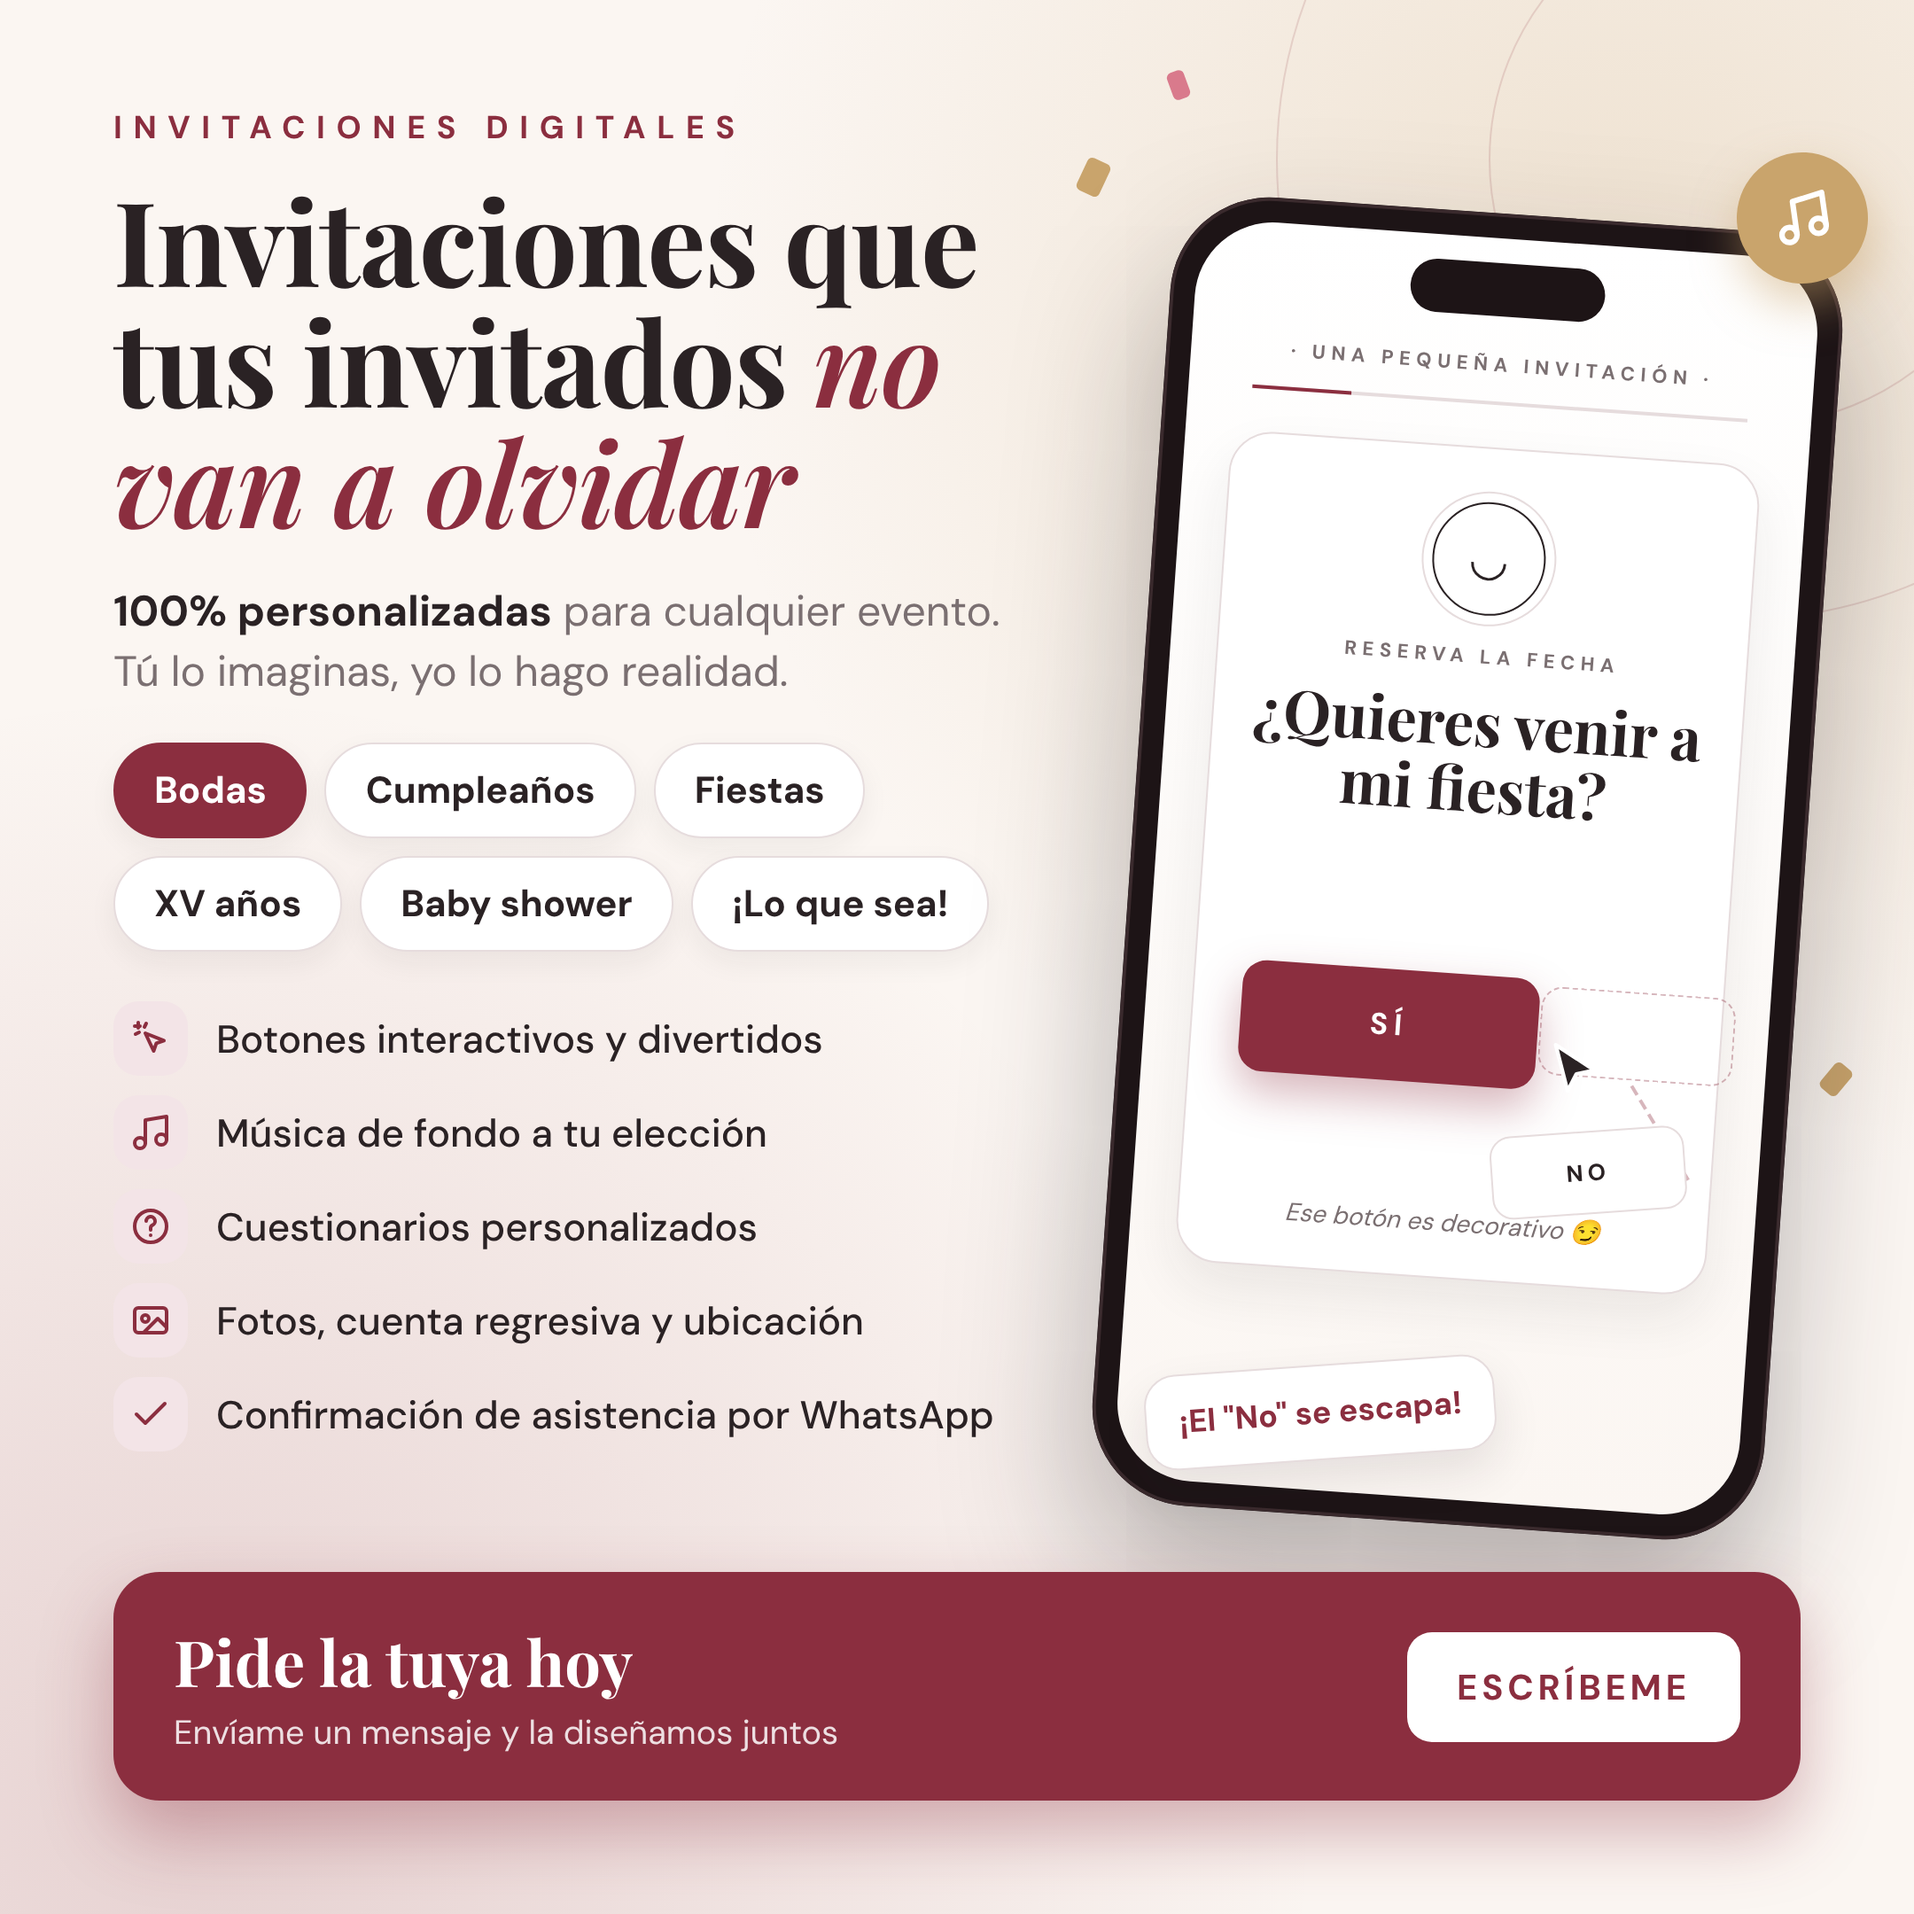
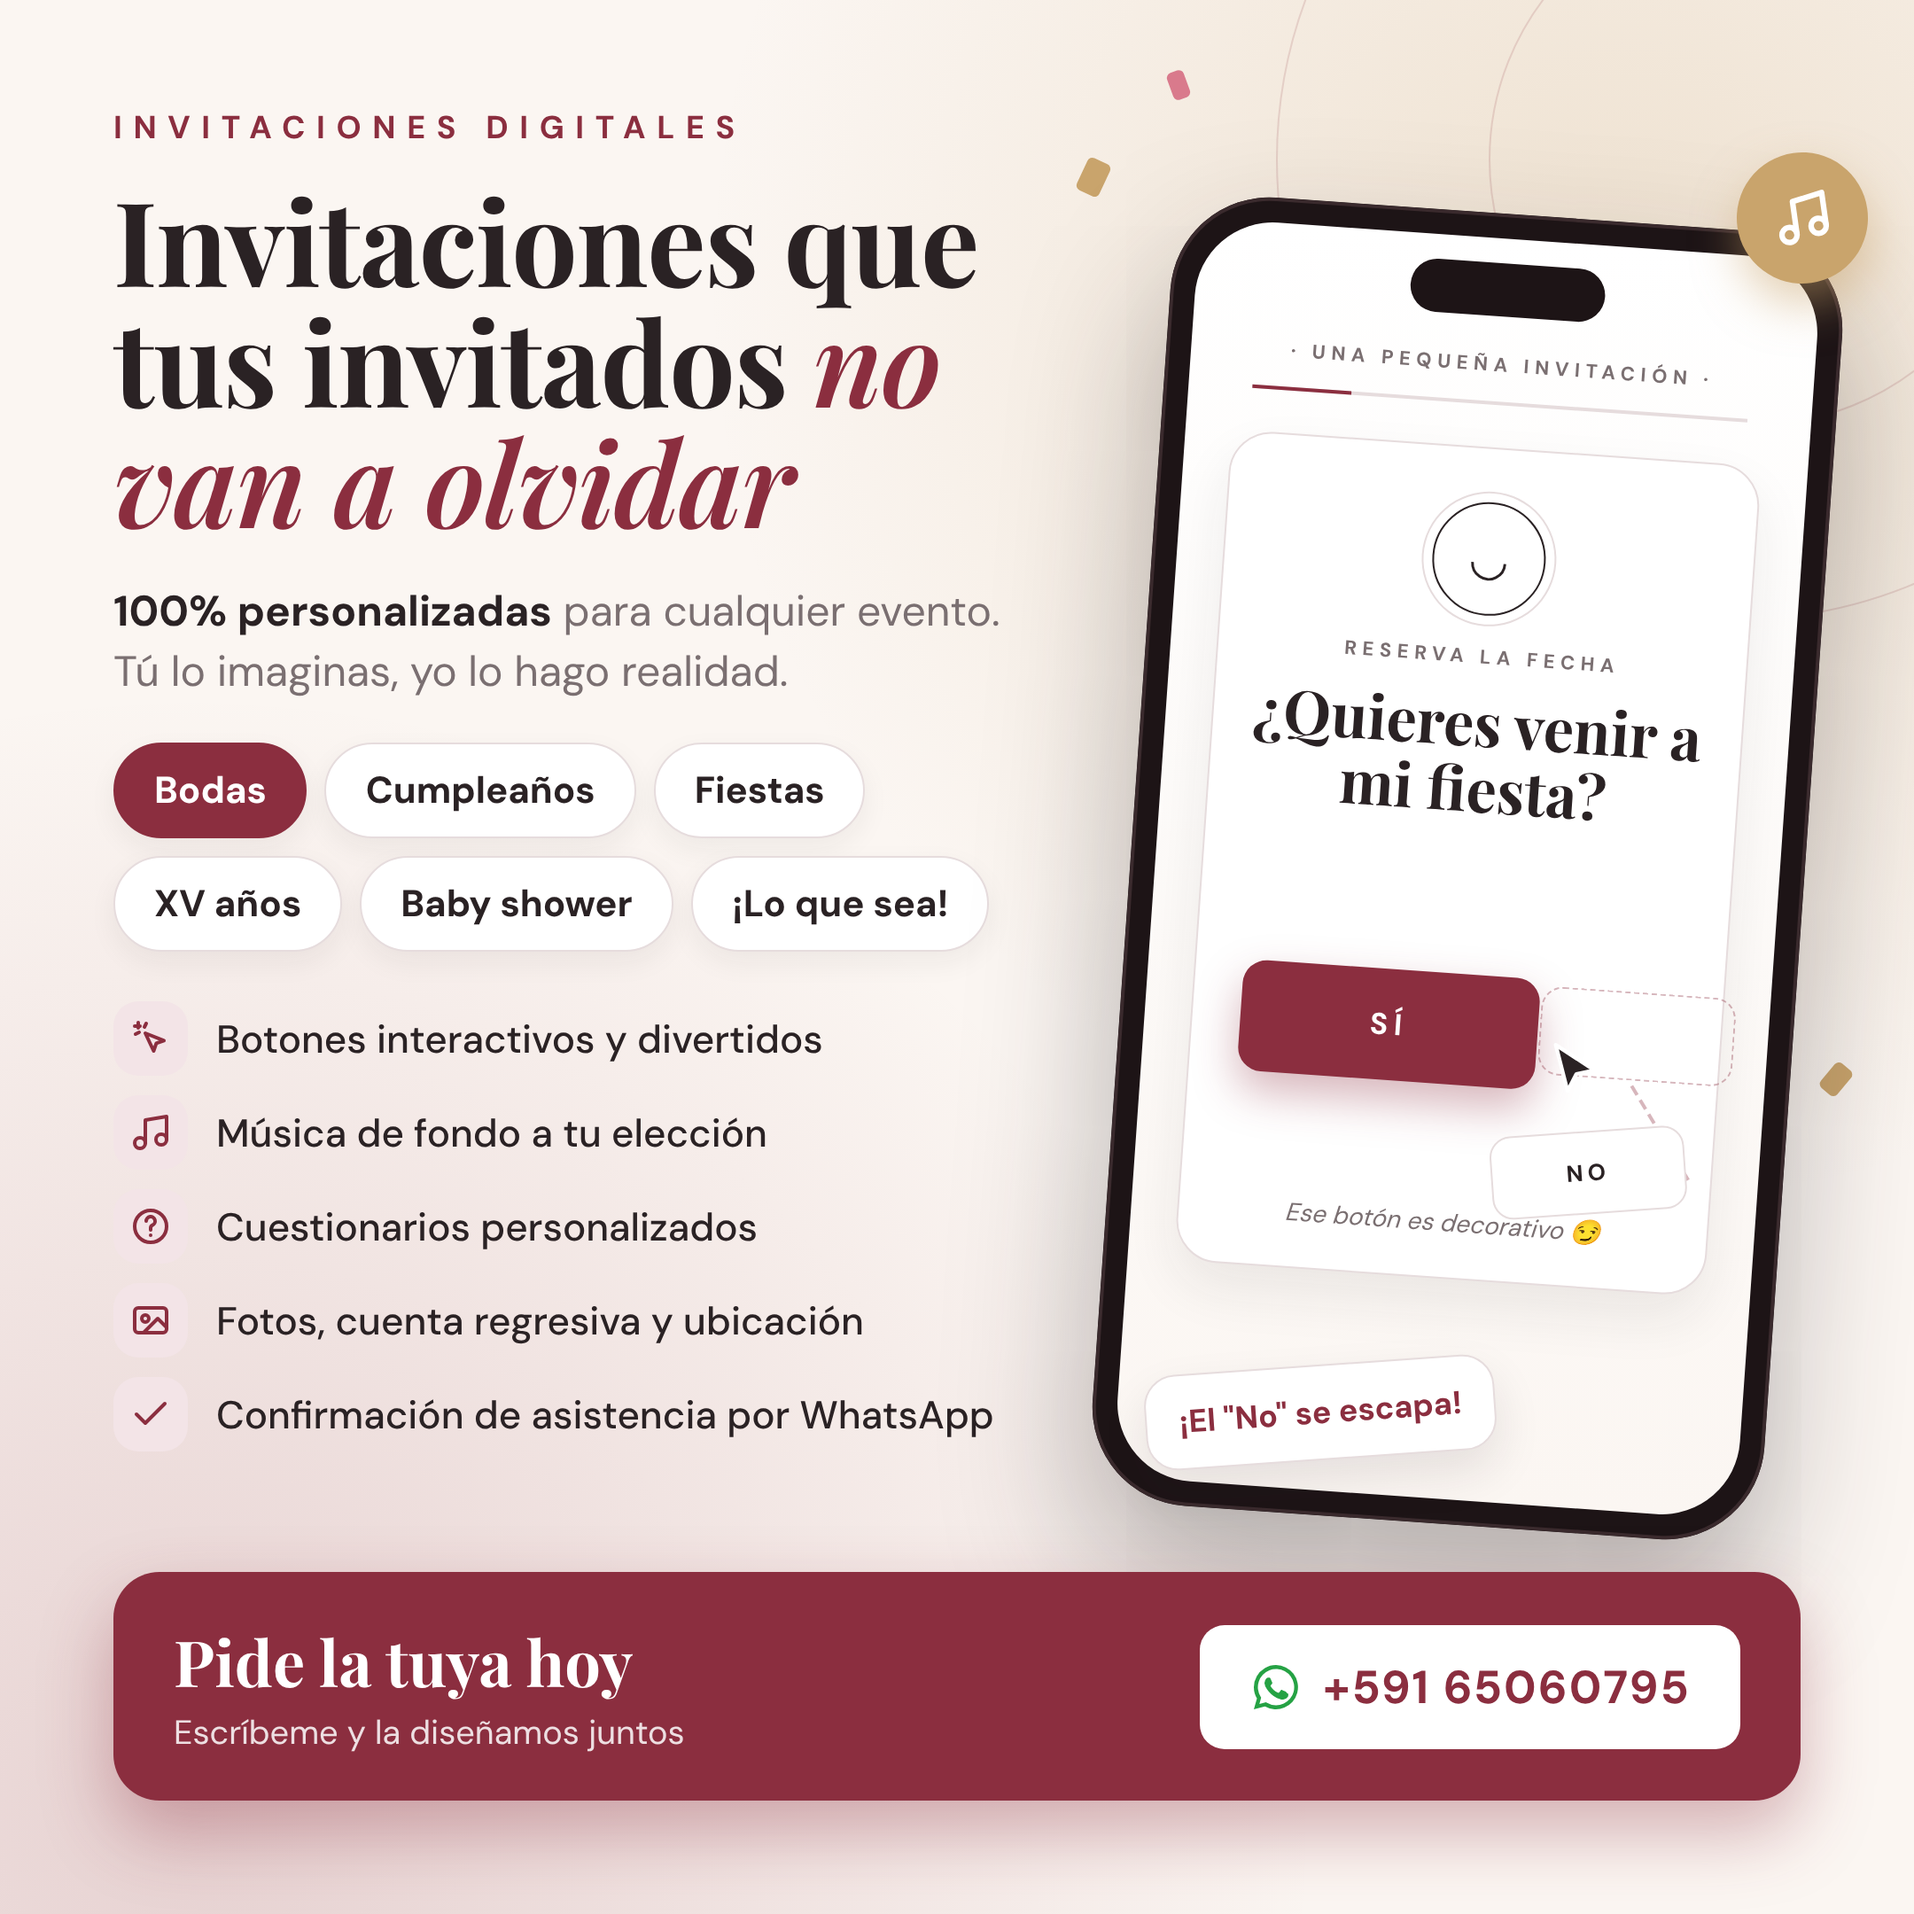
Promo: agrega WhatsApp
Claude-Session: https://claude.ai/code/session_011vbFvSUXPDUftFnxbqztWP

Changed region(s): [[0.6204, 0.8375, 0.8995, 0.9306], [0.0931, 0.8995, 0.4343, 0.9306]]

diff --git a/promo/marketplace.html b/promo/marketplace.html
@@ -53,6 +53,8 @@
   }
   .cta .big { font-family: "Playfair Display", serif; font-size: 36px; font-weight: 700; }
   .cta .small { font-size: 19px; opacity: .85; margin-top: 4px; }
+  .cta .btn.wa { display: flex; align-items: center; gap: 12px; letter-spacing: .04em; font-size: 26px; text-transform: none; }
+  .cta .btn.wa svg { width: 30px; height: 30px; color: #25a244; }
   .cta .btn {
     background: #fff; color: var(--vino); font-weight: 700; font-size: 20px; letter-spacing: .12em;
     text-transform: uppercase; padding: 18px 28px; border-radius: 14px;
@@ -169,9 +171,9 @@
   <div class="cta">
     <div>
       <p class="big">Pide la tuya hoy</p>
-      <p class="small">Envíame un mensaje y la diseñamos juntos</p>
+      <p class="small">Escríbeme y la diseñamos juntos</p>
     </div>
-    <span class="btn">Escríbeme</span>
+    <span class="btn wa"><svg viewBox="0 0 24 24" fill="currentColor"><path d="M12 2a10 10 0 0 0-8.6 15.1L2 22l5-1.3A10 10 0 1 0 12 2zm0 18.2a8.2 8.2 0 0 1-4.2-1.2l-.3-.2-3 .8.8-2.9-.2-.3A8.2 8.2 0 1 1 12 20.2zm4.5-6.1c-.2-.1-1.5-.7-1.7-.8s-.4-.1-.6.1-.6.8-.8 1-.3.2-.5.1a6.7 6.7 0 0 1-3.3-2.9c-.2-.4.2-.4.7-1.3.1-.2 0-.3 0-.4l-.8-1.8c-.2-.5-.4-.4-.6-.4h-.5a1 1 0 0 0-.7.3 3 3 0 0 0-.9 2.2 5.2 5.2 0 0 0 1.1 2.7 11.8 11.8 0 0 0 4.5 4c1.7.7 2.3.8 3.2.6a2.7 2.7 0 0 0 1.8-1.2 2.2 2.2 0 0 0 .1-1.3c0-.1-.2-.2-.5-.3z"/></svg>+591 65060795</span>
   </div>
 </div>
 </body>
